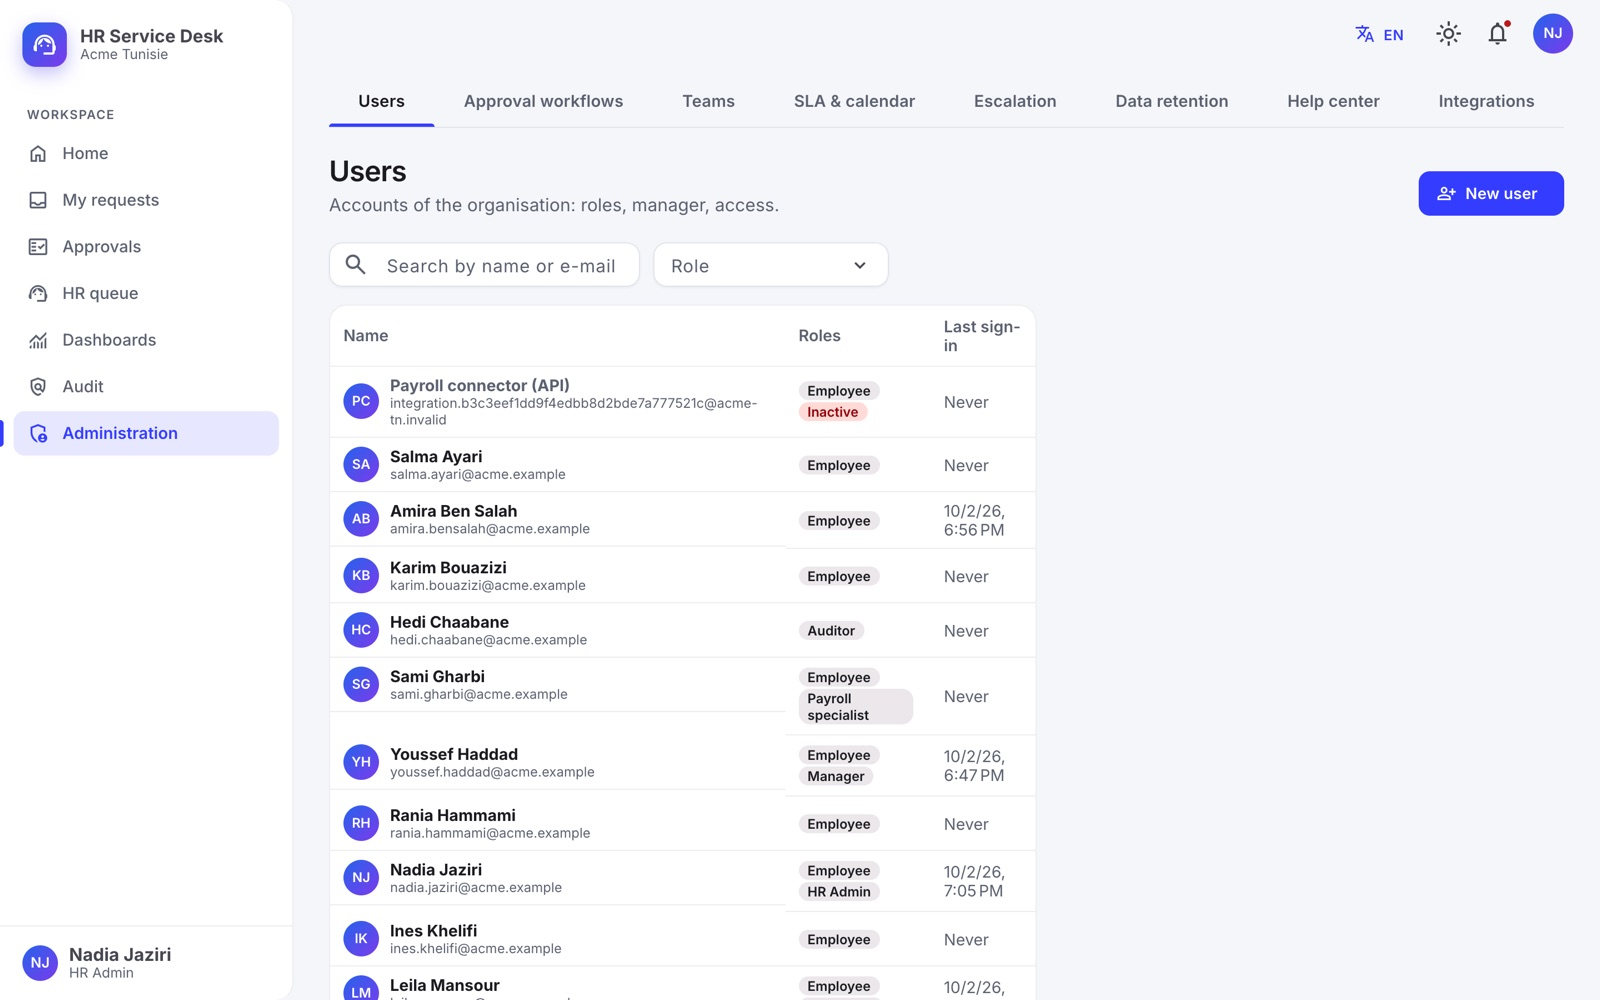
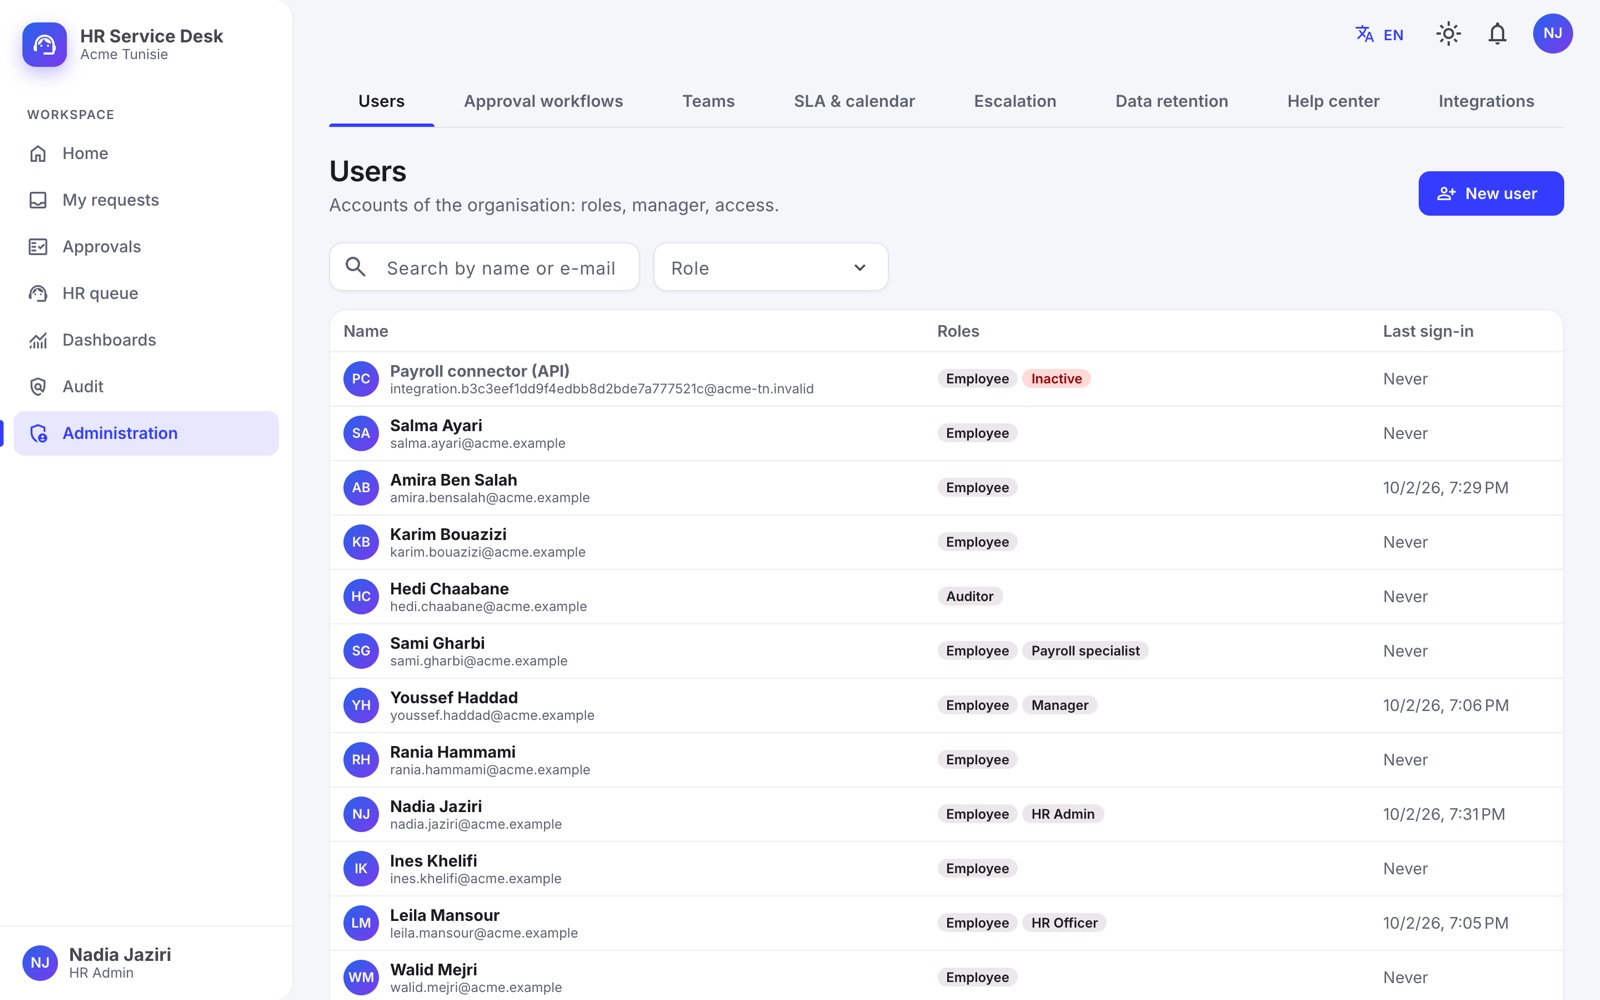
style(frontend): labels above form fields, compact filters, bold page titles and tables that fit the page

diff --git a/frontend/src/app/features/agent/queue.ts b/frontend/src/app/features/agent/queue.ts
@@ -83,22 +83,19 @@ import { EnumLabelPipe } from '../../shared/ui/enum-label';
             <div class="sub">{{ t.requestTypeName }} · {{ t.requesterName }}</div>
           </td>
         </ng-container>
-        <ng-container matColumnDef="team">
-          <th mat-header-cell *matHeaderCellDef>{{ 'ticket.team' | translate }}</th>
-          <td mat-cell *matCellDef="let t">{{ t.teamName ?? '—' }}</td>
-        </ng-container>
         <ng-container matColumnDef="assignee">
           <th mat-header-cell *matHeaderCellDef>{{ 'ticket.assignee' | translate }}</th>
           <td mat-cell *matCellDef="let t">
             @if (t.assigneeName) {
-              {{ t.assigneeName }}
+              <div>{{ t.assigneeName }}</div>
             } @else if (canWork) {
-              <button mat-stroked-button type="button" (click)="claim(t)" [disabled]="claiming() === t.id" [attr.data-testid]="'take-' + t.reference">
+              <button mat-stroked-button type="button" class="take" (click)="claim(t)" [disabled]="claiming() === t.id" [attr.data-testid]="'take-' + t.reference">
                 {{ 'queue.take' | translate }}
               </button>
             } @else {
-              —
+              <div>—</div>
             }
+            <div class="sub">{{ t.teamName ?? ('common.noTeam' | translate) }}</div>
           </td>
         </ng-container>
         <ng-container matColumnDef="status">
@@ -115,7 +112,7 @@ import { EnumLabelPipe } from '../../shared/ui/enum-label';
         </ng-container>
         <ng-container matColumnDef="created">
           <th mat-header-cell *matHeaderCellDef>{{ 'requests.submitted' | translate }}</th>
-          <td mat-cell *matCellDef="let t">{{ t.createdAt | date: 'short' }}</td>
+          <td mat-cell *matCellDef="let t">{{ t.createdAt | date: 'd MMM' }}</td>
         </ng-container>
         <tr mat-header-row *matHeaderRowDef="columns"></tr>
         <tr mat-row *matRowDef="let row; columns: columns" [attr.data-testid]="'row-' + row.reference"></tr>
@@ -133,8 +130,19 @@ import { EnumLabelPipe } from '../../shared/ui/enum-label';
     }
   `,
   styles: `
-    h1 {
-      font: var(--mat-sys-headline-small);
+    .mat-column-reference,
+    .mat-column-assignee,
+    .mat-column-status,
+    .mat-column-priority,
+    .mat-column-sla,
+    .mat-column-created {
+      white-space: nowrap;
+    }
+    .mat-column-title {
+      min-width: 220px;
+    }
+    .take {
+      height: 30px;
     }
     .filters {
       display: flex;
@@ -161,7 +169,7 @@ export class Queue {
   /** Auditors read the queue but do not take cases. */
   protected readonly canWork = this.auth.hasAnyRole(['HrOfficer', 'PayrollSpecialist', 'HrAdmin']);
   protected readonly statuses = STATUSES;
-  protected readonly columns = ['reference', 'title', 'team', 'assignee', 'status', 'priority', 'sla', 'created'];
+  protected readonly columns = ['reference', 'title', 'assignee', 'status', 'priority', 'sla', 'created'];
   protected readonly scopes = computed<{ value: TicketScope; label: string }[]>(() =>
     this.canWork
       ? [

diff --git a/frontend/src/app/features/admin/users-admin.ts b/frontend/src/app/features/admin/users-admin.ts
@@ -63,7 +63,7 @@ import { PASSWORD_RULES } from '../auth/reset-password';
       </mat-form-field>
     </div>
 
-    <div class="layout">
+    <div class="layout" [class.with-editor]="open()">
       <div class="list">
         <table class="data">
           <thead>
@@ -77,11 +77,13 @@ import { PASSWORD_RULES } from '../auth/reset-password';
             @for (u of users.value()?.items ?? []; track u.id) {
               <tr (click)="edit(u)" [class.selected]="editingId() === u.id" [class.inactive]="!u.isActive" [attr.data-testid]="'user-' + u.email">
                 <td>
-                  <span class="avatar" aria-hidden="true">{{ initials(u.fullName) }}</span>
-                  <span class="who">
-                    <strong>{{ u.fullName }}</strong>
-                    <small>{{ u.email }}</small>
-                  </span>
+                  <div class="person">
+                    <span class="avatar" aria-hidden="true">{{ initials(u.fullName) }}</span>
+                    <span class="who">
+                      <strong>{{ u.fullName }}</strong>
+                      <small [title]="u.email">{{ u.email }}</small>
+                    </span>
+                  </div>
                 </td>
                 <td>
                   @for (r of u.roles; track r) {
@@ -165,9 +167,12 @@ import { PASSWORD_RULES } from '../auth/reset-password';
     }
     .layout {
       display: grid;
-      grid-template-columns: minmax(0, 1.4fr) minmax(0, 1fr);
+      grid-template-columns: minmax(0, 1fr);
       gap: 20px;
       align-items: start;
+    }
+    .layout.with-editor {
+      grid-template-columns: minmax(0, 1.5fr) minmax(340px, 1fr);
     }
     .list {
       border-radius: var(--app-radius);
@@ -202,10 +207,21 @@ import { PASSWORD_RULES } from '../auth/reset-password';
     tr.inactive strong {
       color: var(--app-muted);
     }
-    td:first-child {
+    table.data {
+      table-layout: fixed;
+    }
+    th:nth-child(2) {
+      width: 34%;
+    }
+    th:nth-child(3) {
+      width: 150px;
+      white-space: nowrap;
+    }
+    .person {
       display: flex;
       align-items: center;
       gap: 10px;
+      min-width: 0;
     }
     .avatar {
       flex: none;
@@ -222,6 +238,12 @@ import { PASSWORD_RULES } from '../auth/reset-password';
       display: grid;
       min-width: 0;
     }
+    .who strong,
+    .who small {
+      overflow: hidden;
+      text-overflow: ellipsis;
+      white-space: nowrap;
+    }
     .who small,
     .muted {
       color: var(--app-muted);
@@ -233,6 +255,7 @@ import { PASSWORD_RULES } from '../auth/reset-password';
       border-radius: 10px;
       font-size: 0.75rem;
       font-weight: 600;
+      white-space: nowrap;
       background: var(--mat-sys-surface-container-high);
     }
     .pill.off {
@@ -277,7 +300,7 @@ import { PASSWORD_RULES } from '../auth/reset-password';
       gap: 8px;
     }
     @media (max-width: 959px) {
-      .layout {
+      .layout.with-editor {
         grid-template-columns: 1fr;
       }
       .editor {

diff --git a/frontend/src/styles.scss b/frontend/src/styles.scss
@@ -597,3 +597,66 @@ div.mat-mdc-autocomplete-panel {
     transform: rotate(360deg);
   }
 }
+
+/* ==========================================================================
+   Page titles, table links, compact filters, labels above form fields.
+   ========================================================================== */
+
+h1 {
+  font: 700 1.75rem/1.2 Inter, 'IBM Plex Sans Arabic', system-ui, sans-serif;
+  letter-spacing: -0.025em;
+  margin: 0 0 16px;
+}
+
+.mat-mdc-table a,
+table.data a {
+  font-weight: 600;
+  text-decoration: none;
+  font-variant-numeric: tabular-nums;
+  white-space: nowrap;
+
+  &:hover {
+    text-decoration: underline;
+    text-underline-offset: 3px;
+  }
+}
+
+// Filters and search boxes (outside forms): compact, label inside.
+.mat-mdc-form-field:not(form .mat-mdc-form-field) {
+  @include mat.form-field-density(-3);
+}
+
+// Form fields: the label sits above the box, as on the sign-in page.
+form .mat-mdc-form-field.mat-form-field-appearance-outline {
+  padding-top: 28px;
+
+  .mat-mdc-text-field-wrapper,
+  .mdc-notched-outline,
+  .mdc-notched-outline__notch {
+    overflow: visible !important;
+  }
+
+  .mdc-notched-outline__notch {
+    border-top-style: solid !important;
+    border-top-width: var(--mat-form-field-outlined-outline-width, 1px) !important;
+  }
+
+  &.mat-focused .mdc-notched-outline__notch {
+    border-top-width: var(--mat-form-field-outlined-focus-outline-width, 2px) !important;
+  }
+
+  .mdc-floating-label,
+  .mdc-floating-label--float-above {
+    top: -20px !important;
+    transform: none !important;
+    inset-inline-start: 0 !important;
+    max-width: 100% !important;
+    font-size: 0.85rem !important;
+    font-weight: 600;
+    color: var(--mat-sys-on-surface) !important;
+  }
+
+  &.mat-form-field-invalid .mdc-floating-label {
+    color: var(--mat-sys-error) !important;
+  }
+}

diff --git a/frontend/src/app/features/admin/knowledge-admin.ts b/frontend/src/app/features/admin/knowledge-admin.ts
@@ -45,7 +45,7 @@ import { EnumLabelPipe } from '../../shared/ui/enum-label';
       <mat-progress-bar mode="indeterminate" />
     }
 
-    <div class="layout">
+    <div class="layout" [class.with-editor]="open()">
       <div class="list">
         @for (a of articles.value() ?? []; track a.id) {
           <button type="button" class="row" [class.selected]="editingId() === a.id" (click)="edit(a)" [attr.data-testid]="'kb-' + a.title">
@@ -109,9 +109,12 @@ import { EnumLabelPipe } from '../../shared/ui/enum-label';
   styles: `
     .layout {
       display: grid;
-      grid-template-columns: minmax(0, 1fr) minmax(0, 1.1fr);
+      grid-template-columns: minmax(0, 1fr);
       gap: 20px;
       align-items: start;
+    }
+    .layout.with-editor {
+      grid-template-columns: minmax(0, 1fr) minmax(0, 1.1fr);
     }
     .list {
       display: grid;
@@ -201,7 +204,7 @@ import { EnumLabelPipe } from '../../shared/ui/enum-label';
       color: var(--app-muted);
     }
     @media (max-width: 959px) {
-      .layout {
+      .layout.with-editor {
         grid-template-columns: 1fr;
       }
       .editor {

diff --git a/frontend/src/app/shared/ui/sla-badge.ts b/frontend/src/app/shared/ui/sla-badge.ts
@@ -16,7 +16,7 @@ const ICONS: Record<SlaStateName, string> = { None: 'remove', OnTrack: 'schedule
       <mat-icon fontSet="material-symbols-outlined">{{ paused() ? 'pause_circle' : icon() }}</mat-icon>
       {{ (paused() ? 'sla.paused' : 'sla.' + state()) | translate }}
       @if (dueAt() && !paused() && state() !== 'None') {
-        <span class="due">· {{ dueAt() | date: 'short' }}</span>
+        <span class="due">· {{ dueAt() | date: 'd MMM, HH:mm' }}</span>
       }
     </span>
   `,

diff --git a/frontend/src/app/features/portal/my-requests.ts b/frontend/src/app/features/portal/my-requests.ts
@@ -90,9 +90,10 @@ import { EnumLabelPipe } from '../../shared/ui/enum-label';
       justify-content: space-between;
       gap: 16px;
       flex-wrap: wrap;
+      margin-bottom: 16px;
     }
-    h1 {
-      font: var(--mat-sys-headline-small);
+    .toolbar h1 {
+      margin: 0;
     }
     .table {
       width: 100%;

diff --git a/frontend/src/app/features/admin/teams-admin.ts b/frontend/src/app/features/admin/teams-admin.ts
@@ -104,9 +104,6 @@ import { TranslatePipe, TranslateService } from '@ngx-translate/core';
       justify-content: space-between;
       align-items: center;
     }
-    h1 {
-      font: var(--mat-sys-headline-small);
-    }
     .editor {
       max-width: 640px;
       margin-bottom: 16px;

diff --git a/frontend/src/app/features/admin/escalations-admin.ts b/frontend/src/app/features/admin/escalations-admin.ts
@@ -88,9 +88,6 @@ const ACTIONS: EscalationRuleInfo['action'][] = ['NotifyAssignee', 'NotifyManage
     </mat-card>
   `,
   styles: `
-    h1 {
-      font: var(--mat-sys-headline-small);
-    }
     .intro,
     .fired {
       color: var(--mat-sys-on-surface-variant);

diff --git a/frontend/src/app/features/manager/team.ts b/frontend/src/app/features/manager/team.ts
@@ -65,9 +65,6 @@ import { EnumLabelPipe } from '../../shared/ui/enum-label';
     }
   `,
   styles: `
-    h1 {
-      font: var(--mat-sys-headline-small);
-    }
     .tiles {
       display: grid;
       grid-template-columns: repeat(auto-fill, minmax(180px, 1fr));

diff --git a/frontend/src/app/features/admin/sla-admin.ts b/frontend/src/app/features/admin/sla-admin.ts
@@ -142,9 +142,6 @@ type TargetForm = FormGroup<{ priority: FormControl<string>; firstResponseHours:
     </div>
   `,
   styles: `
-    h1 {
-      font: var(--mat-sys-headline-small);
-    }
     .intro,
     .types {
       color: var(--mat-sys-on-surface-variant);

diff --git a/frontend/src/app/features/portal/catalog.ts b/frontend/src/app/features/portal/catalog.ts
@@ -69,9 +69,6 @@ const fold = (text: string) => text.normalize('NFD').replace(/\p{Diacritic}/gu, 
     </div>
   `,
   styles: `
-    h1 {
-      font: var(--mat-sys-headline-small);
-    }
     .help-banner {
       display: flex;
       align-items: center;

diff --git a/frontend/src/app/features/admin/workflows-list.ts b/frontend/src/app/features/admin/workflows-list.ts
@@ -46,9 +46,6 @@ import { TranslatePipe, TranslateService } from '@ngx-translate/core';
     }
   `,
   styles: `
-    h1 {
-      font: var(--mat-sys-headline-small);
-    }
     .intro {
       color: var(--mat-sys-on-surface-variant);
     }
